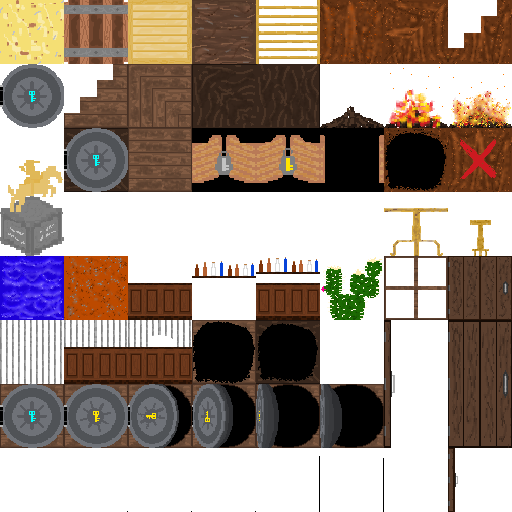
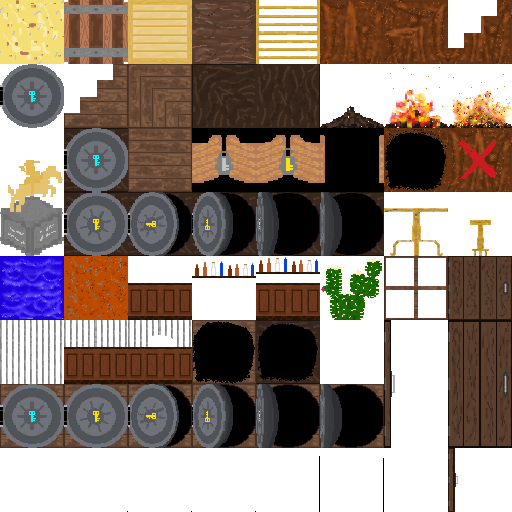
more block changes, again updated texture atlas

Changed region(s): [[0.125, 0.375, 0.75, 0.5]]

diff --git a/Source/Blocks/OpenVaultDoorBlock.cs b/Source/Blocks/OpenVaultDoorBlock.cs
@@ -6,7 +6,7 @@ using Microsoft.Xna.Framework.Graphics;
 
 namespace GameProject.Blocks;
 
-public class FireBlock : IBlock {
+public class OpenVaultDoorBlock : IBlock {
   private static Texture2D texture;
   private List<Rectangle> sourceRects;
   private int currentFrame;
@@ -18,13 +18,13 @@ public class FireBlock : IBlock {
   public ICollider Collider { get; private set; }
   public Rectangle BoundingBox => new Rectangle((int)XPos, (int)YPos, (int)(sourceRects[0].Width * 2f), (int)(sourceRects[0].Height * 2f));
 
-  public FireBlock(Texture2D FireTexture, Vector2 xyPos) {
-    texture = FireTexture;
+  public OpenVaultDoorBlock(Texture2D OpenVaultDoorTexture, Vector2 xyPos) {
+    texture = OpenVaultDoorTexture;
     currentFrame = 0;
     XPos = xyPos.X;
     YPos = xyPos.Y;
     State = BlockState.lit;
-    sourceRects = new List<Rectangle> { 
+    sourceRects = new List<Rectangle> {
       new Rectangle(384, 64, 64, 64),
       new Rectangle(448, 64, 64, 64)
     };
@@ -40,8 +40,8 @@ public class FireBlock : IBlock {
     float dt = (float)gameTime.ElapsedGameTime.TotalSeconds;
     animationTimer += dt;
     if (animationTimer >= timePerFrame) {
-        currentFrame = 1 - currentFrame;
-        animationTimer = 0;
+      currentFrame = 1 - currentFrame;
+      animationTimer = 0;
     }
   }
 

diff --git a/Source/Blocks/LockedVaultBlock.cs b/Source/Blocks/LockedVaultBlock.cs
@@ -17,11 +17,11 @@ public class LockedVaultBlock : IBlock {
     texture = LockedVaultTexture;
     XPos = xyPos.X;
     YPos = xyPos.Y;
-    sourceRect = new Rectangle(64, 128, 63, 63); // will be in xml (or something else) file later -Aaron
+    sourceRect = new Rectangle(64, 128, 64, 64); // will be in xml (or something else) file later -Aaron
 
-    Vector2 dimensions = new Vector2(126, 126);
+    Vector2 dimensions = new Vector2(128, 128);
 
-    Vector2 centerPosition = new Vector2(XPos + 63, YPos + 63);
+    Vector2 centerPosition = new Vector2(XPos + 64, YPos + 64);
 
     Collider = new BoxCollider(dimensions, centerPosition);
   }

diff --git a/Source/Blocks/LargeDoorBlock.cs b/Source/Blocks/LargeDoorBlock.cs
@@ -17,11 +17,11 @@ public class LargeDoorBlock : IBlock {
     texture = LargeDoorTexture;
     XPos = xyPos.X;
     YPos = xyPos.Y;
-    sourceRect = new Rectangle(448, 320, 63, 126); // will be in xml (or something else) file later -Aaron
+    sourceRect = new Rectangle(448, 320, 64, 128); // will be in xml (or something else) file later -Aaron
 
-    Vector2 dimensions = new Vector2(126, 126);
+    Vector2 dimensions = new Vector2(64, 128);
 
-    Vector2 centerPosition = new Vector2(XPos + 63, YPos + 63);
+    Vector2 centerPosition = new Vector2(XPos + 64, YPos + 64);
 
     Collider = new BoxCollider(dimensions, centerPosition);
   }

diff --git a/Source/Blocks/LadderBlock.cs b/Source/Blocks/LadderBlock.cs
@@ -17,11 +17,11 @@ public class LadderBlock : IBlock {
     texture = LadderTexture;
     XPos = xyPos.X;
     YPos = xyPos.Y;
-    sourceRect = new Rectangle(256, 0, 63, 63); // will be in xml (or something else) file later -Aaron
+    sourceRect = new Rectangle(256, 0, 64, 64); // will be in xml (or something else) file later -Aaron
 
-    Vector2 dimensions = new Vector2(126, 126);
+    Vector2 dimensions = new Vector2(128, 128);
 
-    Vector2 centerPosition = new Vector2(XPos + 63, YPos + 63);
+    Vector2 centerPosition = new Vector2(XPos + 64, YPos + 64);
 
     Collider = new BoxCollider(dimensions, centerPosition);
   }

diff --git a/Source/Factories/BlockSpriteFactory.cs b/Source/Factories/BlockSpriteFactory.cs
@@ -44,6 +44,7 @@ public class BlockSpriteFactory {
     game.StateGame.Blocks.Add(new RedSandBlock(blockTextures, new Vector2(150, 100)));
     game.StateGame.Blocks.Add(new RedXRockBlock(blockTextures, new Vector2(150, 100)));
     game.StateGame.Blocks.Add(new RockHoleBlock(blockTextures, new Vector2(150, 100)));
+    game.StateGame.Blocks.Add(new FireBlock(blockTextures, new Vector2(150, 100)));
   }
 
   public IBlock CreateSandBlockSprite(float x, float y) {

diff --git a/Source/Blocks/BarShelfBlock.cs b/Source/Blocks/BarShelfBlock.cs
@@ -35,7 +35,7 @@ public class BarShelfBlock : IBlock {
 
   public void Draw(SpriteBatch spriteBatch) {
     spriteBatch.Draw(texture, new Vector2(XPos, YPos), sourceRect,
-                      Color.White, 0.0f, new Vector2(0, 0), 1.0f,
+                      Color.White, 0.0f, new Vector2(0, 0), 2.0f,
                       SpriteEffects.None, 0.0f);
   }
 }

diff --git a/Source/Blocks/FirePitBlock.cs b/Source/Blocks/FirePitBlock.cs
@@ -34,7 +34,7 @@ public class FirePitBlock : IBlock {
 
   public void Draw(SpriteBatch spriteBatch) {
     spriteBatch.Draw(texture, new Vector2(XPos, YPos), sourceRect,
-                      Color.White, 0.0f, new Vector2(0, 0), 1.0f,
+                      Color.White, 0.0f, new Vector2(0, 0), 2.0f,
                       SpriteEffects.None, 0.0f);
   }
 }

diff --git a/Source/Blocks/BarrelBlock.cs b/Source/Blocks/BarrelBlock.cs
@@ -35,7 +35,7 @@ public class BarrelBlock : IBlock {
 
   public void Draw(SpriteBatch spriteBatch) {
     spriteBatch.Draw(texture, new Vector2(XPos, YPos), sourceRect,
-                      Color.White, 0.0f, new Vector2(0, 0), 1.0f,
+                      Color.White, 0.0f, new Vector2(0, 0), 2.0f,
                       SpriteEffects.None, 0.0f);
   }
 

diff --git a/Source/Blocks/CrateBlock.cs b/Source/Blocks/CrateBlock.cs
@@ -34,7 +34,7 @@ public class CrateBlock : IBlock {
 
   public void Draw(SpriteBatch spriteBatch) {
     spriteBatch.Draw(texture, new Vector2(XPos, YPos), sourceRect,
-                      Color.White, 0.0f, new Vector2(0, 0), 1.0f,
+                      Color.White, 0.0f, new Vector2(0, 0), 2.0f,
                       SpriteEffects.None, 0.0f);
   }
 

diff --git a/Source/GameStates/StateGameType.cs b/Source/GameStates/StateGameType.cs
@@ -87,7 +87,7 @@ public class StateGameType(Game1 game) : IGameState {
 
     if (Blocks != null) {
       foreach (IBlock block in Blocks) {
-
+        block.Update(gameTime);
         if (block.Collider is BoxCollider blockBox && Player.Collider is BoxCollider playerBox) {
 
           if (playerBox.CheckCollision(blockBox)) {
